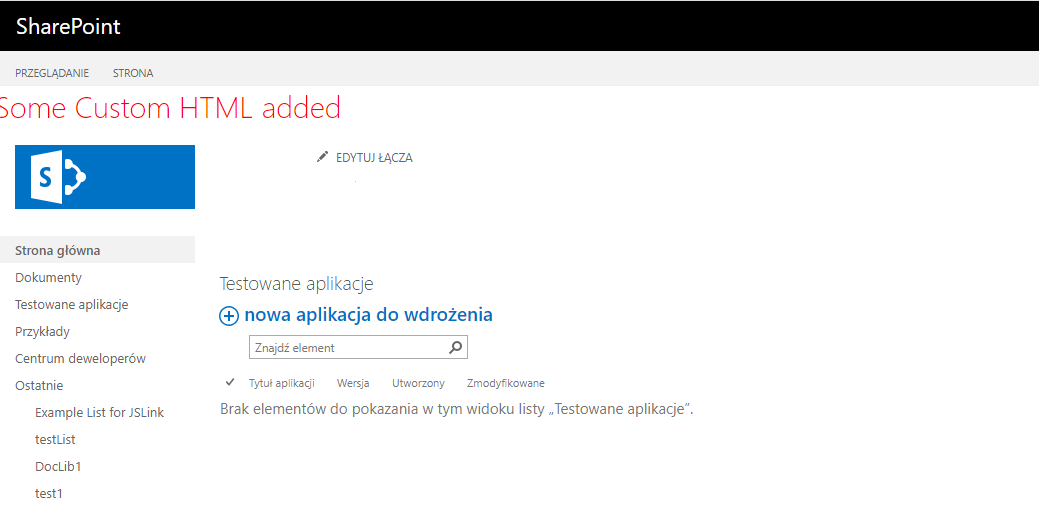
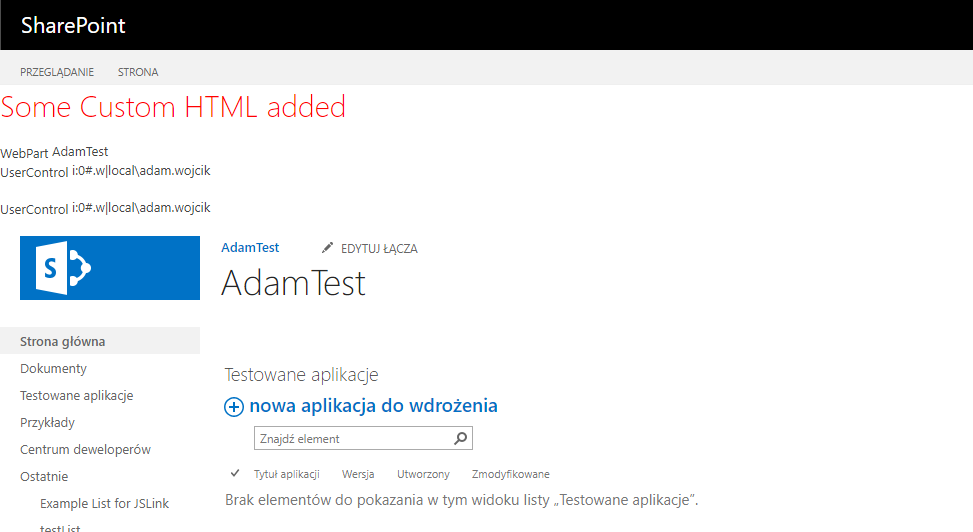
added usercontrol, added webpart, added js file .. all used in the masterpage

diff --git a/MasterPage/Components/SCRIPTS/MasterPageComponents/CustomJS.js b/MasterPage/Components/SCRIPTS/MasterPageComponents/CustomJS.js
@@ -1,0 +1,2 @@
+
+console.log("CustomJS")

diff --git a/MasterPage/Components/Webpart/ExampleVisualWebPart/ExampleVisualWebPartUserControl.ascx.designer.cs b/MasterPage/Components/Webpart/ExampleVisualWebPart/ExampleVisualWebPartUserControl.ascx.designer.cs
@@ -1,0 +1,33 @@
+//------------------------------------------------------------------------------
+// <generowany automatycznie>
+//     Ten kod został wygenerowany przez narzędzie.
+//
+//     Modyfikacje tego pliku mogą spowodować niewłaściwe zachowanie i zostaną utracone
+//     w przypadku ponownego wygenerowania kodu. 
+// </generowany automatycznie>
+//------------------------------------------------------------------------------
+
+namespace Components.Webpart.ExampleVisualWebPart {
+    
+    
+    public partial class ExampleVisualWebPartUserControl {
+        
+        /// <summary>
+        /// Kontrolka LbWebTitle.
+        /// </summary>
+        /// <remarks>
+        /// Pole generowane automatycznie.
+        /// By zmodyfikować deklaracje pola przenieś ją z pliku projektanta do pliku codebehind.
+        /// </remarks>
+        protected global::System.Web.UI.WebControls.Label LbWebTitle;
+        
+        /// <summary>
+        /// Kontrolka ExampleUserControl.
+        /// </summary>
+        /// <remarks>
+        /// Pole generowane automatycznie.
+        /// By zmodyfikować deklaracje pola przenieś ją z pliku projektanta do pliku codebehind.
+        /// </remarks>
+        protected global::System.Web.UI.UserControl ExampleUserControl;
+    }
+}

diff --git a/MasterPage/Components/ControlTemplates/Components/ExampleUserControl.ascx.designer.cs b/MasterPage/Components/ControlTemplates/Components/ExampleUserControl.ascx.designer.cs
@@ -1,0 +1,24 @@
+//------------------------------------------------------------------------------
+// <generowany automatycznie>
+//     Ten kod został wygenerowany przez narzędzie.
+//
+//     Modyfikacje tego pliku mogą spowodować niewłaściwe zachowanie i zostaną utracone
+//     w przypadku ponownego wygenerowania kodu. 
+// </generowany automatycznie>
+//------------------------------------------------------------------------------
+
+namespace Components.ControlTemplates.Components {
+    
+    
+    public partial class ExampleUserControl {
+        
+        /// <summary>
+        /// Kontrolka LbUserLoginName.
+        /// </summary>
+        /// <remarks>
+        /// Pole generowane automatycznie.
+        /// By zmodyfikować deklaracje pola przenieś ją z pliku projektanta do pliku codebehind.
+        /// </remarks>
+        protected global::System.Web.UI.WebControls.Label LbUserLoginName;
+    }
+}

diff --git a/MasterPage/Components/Webpart/ExampleVisualWebPart/ExampleVisualWebPart.cs b/MasterPage/Components/Webpart/ExampleVisualWebPart/ExampleVisualWebPart.cs
@@ -1,0 +1,24 @@
+using System;
+using System.ComponentModel;
+using System.Web;
+using System.Web.UI;
+using System.Web.UI.WebControls;
+using System.Web.UI.WebControls.WebParts;
+using Microsoft.SharePoint;
+using Microsoft.SharePoint.WebControls;
+
+namespace Components.Webpart.ExampleVisualWebPart
+{
+    [ToolboxItemAttribute(false)]
+    public class ExampleVisualWebPart : WebPart
+    {
+        // Program Visual Studio może automatycznie zaktualizować tę ścieżkę, gdy zmienisz element projektu Visual Web Part.
+        private const string _ascxPath = @"~/_CONTROLTEMPLATES/15/Components.Webpart/ExampleVisualWebPart/ExampleVisualWebPartUserControl.ascx";
+
+        protected override void CreateChildControls()
+        {
+            Control control = Page.LoadControl(_ascxPath);
+            Controls.Add(control);
+        }
+    }
+}

diff --git a/MasterPage/Components/ControlTemplates/Components/ExampleUserControl.ascx.cs b/MasterPage/Components/ControlTemplates/Components/ExampleUserControl.ascx.cs
@@ -1,0 +1,14 @@
+using Microsoft.SharePoint;
+using System;
+using System.Web.UI;
+
+namespace Components.ControlTemplates.Components
+{
+    public partial class ExampleUserControl : UserControl
+    {
+        protected void Page_Load(object sender, EventArgs e)
+        {
+            LbUserLoginName.Text = SPContext.Current.Web.CurrentUser.LoginName;
+        }
+    }
+}

diff --git a/MasterPage/Components/Webpart/ExampleVisualWebPart/ExampleVisualWebPartUserControl.ascx.cs b/MasterPage/Components/Webpart/ExampleVisualWebPart/ExampleVisualWebPartUserControl.ascx.cs
@@ -1,0 +1,14 @@
+using Microsoft.SharePoint;
+using System;
+using System.Web.UI;
+
+namespace Components.Webpart.ExampleVisualWebPart
+{
+    public partial class ExampleVisualWebPartUserControl : UserControl
+    {
+        protected void Page_Load(object sender, EventArgs e)
+        {
+            LbWebTitle.Text = SPContext.Current.Web.Title;
+        }
+    }
+}

diff --git a/MasterPage/README.md b/MasterPage/README.md
@@ -1,9 +1,14 @@
 ## MasterPage
 
-This solution adds a custom MasterPage to site collection. This is a great starting point to add more customization to the site and customize the look and feel.
+- Components - this is a farm solution that adds a usercontrol, webpart, js file (css could be added the same way) to SharePoint which are then added and used in the masterpage. 
+The usercontrol is also used in the webpart
+- MasterPage - This solution adds a custom MasterPage to site collection. This is a great starting point to add more customization to the site and customize the look and feel.
 
 ## Example
 
-Changes visible in a custom MasterPage
+Components present in the project (usercontrol, webpart, js file (also css could be added the same way)) added to masterpage
+![](../Images/CustomMasterPageScreen2.png	)
+
+Changes visible in a custom MasterPage with webpart and user controle present added to the masterpage
 ![](../Images/CustomMasterPageScreen1.png	)
 
